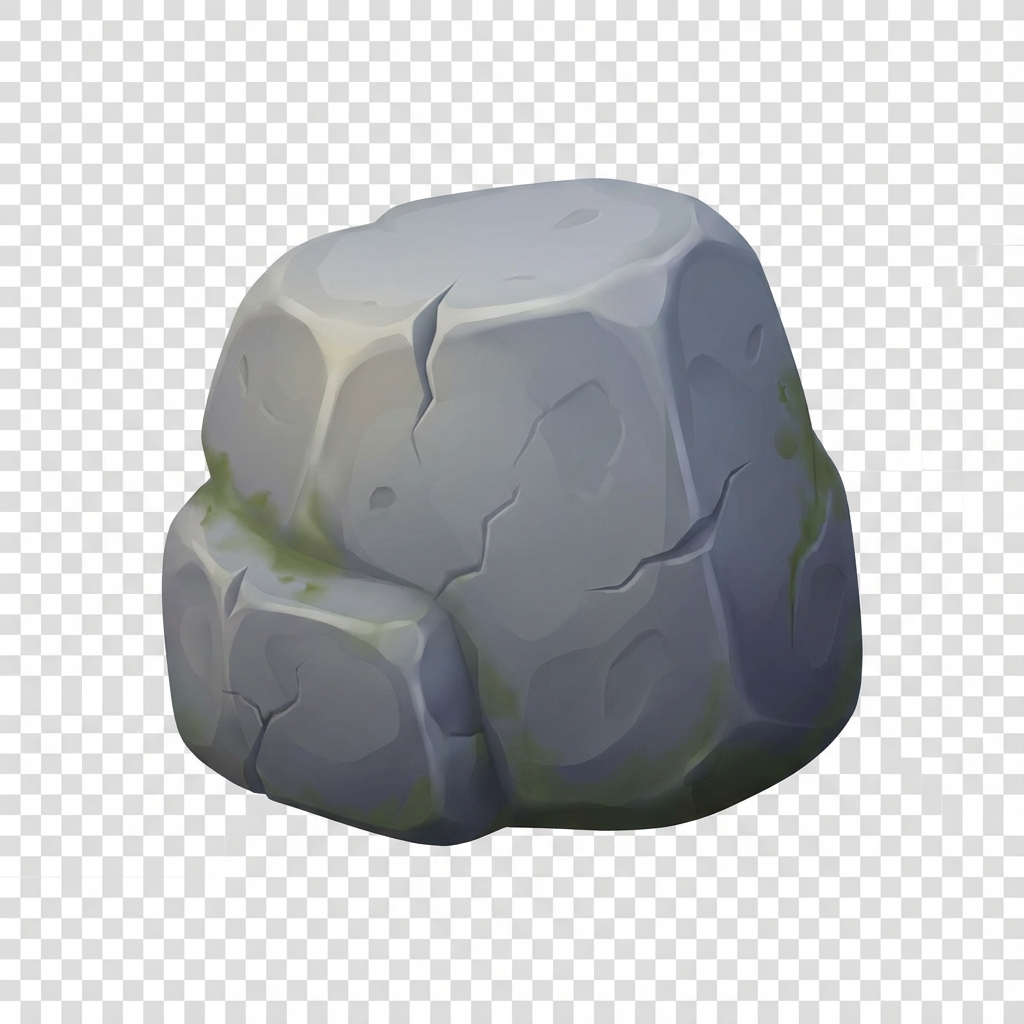
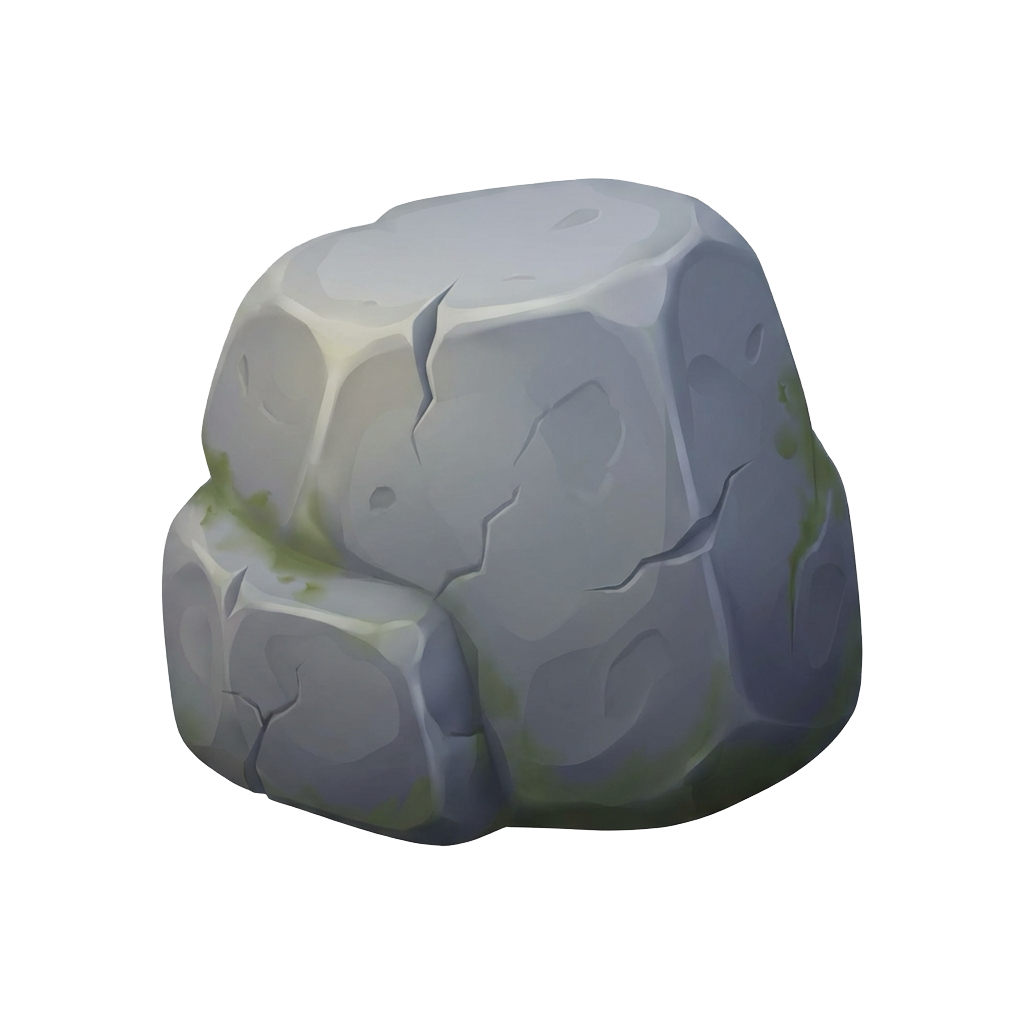
RPS v1.2
Fixed transparency issue with asset images. This
removed the need for the transparency algorithm,
so that is now also removed.

Also adjusted scale level to be more reasonable.

diff --git a/web_tools/rps_screen/script.js b/web_tools/rps_screen/script.js
@@ -99,21 +99,13 @@ async function init() {
         await Promise.all(Object.values(ASSETS).map(asset => {
             return new Promise((resolve, reject) => {
                 const img = new Image();
-                // img.crossOrigin = "Anonymous"; // REMOVED: Blocks file:// loading in Chrome
                 img.src = asset.src;
                 img.onload = () => {
-                    try {
-                        // Attempt "Magic Wand" transparency
-                        asset.img = processImage(img);
-                    } catch (e) {
-                        console.warn("Transparency processing failed (likely CORS/file-protocol restriction). Using original image.", e);
-                        asset.img = img;
-                    }
+                    asset.img = img;
                     resolve();
                 };
                 img.onerror = (e) => {
                     console.error("Failed to load image:", asset.src, e);
-                    // Resolve anyway to let simulation start with fallbacks (circles)
                     resolve();
                 };
             });
@@ -141,7 +133,11 @@ function updateSpeed() {
 }
 
 function updateSize() {
-    CONFIG.iconSize = CONFIG.baseSize * CONFIG.scaleLevel;
+    // Target: Level 10 should be 6x base size.
+    // Formula: base * (1 + log10(scale) * 5)
+    // Level 1: 1 + 0 = 1x (24px)
+    // Level 10: 1 + 1*5 = 6x (144px)
+    CONFIG.iconSize = CONFIG.baseSize * (1 + Math.log10(CONFIG.scaleLevel) * 5);
     CONFIG.collisionRadius = CONFIG.iconSize / 2;
 
     // Update existing items
@@ -150,90 +146,6 @@ function updateSize() {
     });
     // Re-check bounds immediately in case they grew into a wall
     resizeCanvas();
-}
-
-/**
- * Removes white/near-white background from an image using Flood Fill
- * Returns a new HTMLImageElement (or Canvas)
- */
-function processImage(sourceImg) {
-    const w = sourceImg.width;
-    const h = sourceImg.height;
-
-    const scratchCanvas = document.createElement('canvas');
-    scratchCanvas.width = w;
-    scratchCanvas.height = h;
-    const scratchCtx = scratchCanvas.getContext('2d');
-
-    scratchCtx.drawImage(sourceImg, 0, 0);
-    const imageData = scratchCtx.getImageData(0, 0, w, h);
-    const data = imageData.data;
-
-    // BFS Flood Fill from (0,0) and corners to catch background
-    // Assuming background is top-left pixel color (which should be white)
-    // We check 0,0; w-1,0; 0,h-1; w-1,h-1 just to be safe
-
-    const visited = new Uint8Array(w * h); // 1 if visited
-    const queue = [];
-
-    // Helper to add if consistent with background
-    // We'll consider "white-ish" as R>200, G>200, B>200
-    const isBackground = (idx) => {
-        const r = data[idx];
-        const g = data[idx + 1];
-        const b = data[idx + 2];
-        // Strict white or near white
-        return (r > 240 && g > 240 && b > 240);
-    };
-
-    const seeds = [
-        { x: 0, y: 0 },
-        { x: w - 1, y: 0 },
-        { x: 0, y: h - 1 },
-        { x: w - 1, y: h - 1 }
-    ];
-
-    seeds.forEach(p => {
-        const idx = (p.y * w + p.x) * 4;
-        if (isBackground(idx)) {
-            queue.push(p);
-            visited[p.y * w + p.x] = 1;
-        }
-    });
-
-    while (queue.length > 0) {
-        const { x, y } = queue.shift();
-        const baseIdx = (y * w + x) * 4;
-
-        // Clear pixel
-        data[baseIdx + 3] = 0; // Alpha 0
-
-        // Neighbors
-        const neighbors = [
-            { x: x + 1, y: y }, { x: x - 1, y: y },
-            { x: x, y: y + 1 }, { x: x, y: y - 1 }
-        ];
-
-        neighbors.forEach(n => {
-            if (n.x >= 0 && n.x < w && n.y >= 0 && n.y < h) {
-                const nOffset = n.y * w + n.x;
-                if (!visited[nOffset]) {
-                    const nIdx = nOffset * 4;
-                    if (isBackground(nIdx)) {
-                        visited[nOffset] = 1;
-                        queue.push(n);
-                    }
-                }
-            }
-        });
-    }
-
-    scratchCtx.putImageData(imageData, 0, 0);
-
-    // Convert back to image
-    const newImg = new Image();
-    newImg.src = scratchCanvas.toDataURL();
-    return newImg;
 }
 
 function resizeCanvas() {
@@ -262,10 +174,12 @@ function applyTheme(theme) {
 
 // --- Game Logic ---
 
+// --- Game Logic ---
+
 class Item {
-    constructor() {
+    constructor(type) {
         this.radius = CONFIG.collisionRadius;
-        this.type = Math.floor(Math.random() * 3);
+        this.type = type;
 
         // Random Position (respecting bounds)
         this.x = Math.random() * (width - 2 * this.radius) + this.radius;
@@ -335,8 +249,30 @@ function startSimulation() {
     CONFIG.count = parseInt(countInput.value);
     CONFIG.speedMultiplier = parseInt(speedInput.value);
 
+    // Distribution Logic: Min 15% per type
+    const minPerType = Math.floor(CONFIG.count * 0.15);
+    const typesPool = [];
+
+    // Add minimums
+    for (let i = 0; i < minPerType; i++) {
+        typesPool.push(TYPES.ROCK);
+        typesPool.push(TYPES.PAPER);
+        typesPool.push(TYPES.SCISSORS);
+    }
+
+    // Fill remainder randomly
+    while (typesPool.length < CONFIG.count) {
+        typesPool.push(Math.floor(Math.random() * 3));
+    }
+
+    // Shuffle pool (Fisher-Yates)
+    for (let i = typesPool.length - 1; i > 0; i--) {
+        const j = Math.floor(Math.random() * (i + 1));
+        [typesPool[i], typesPool[j]] = [typesPool[j], typesPool[i]];
+    }
+
     for (let i = 0; i < CONFIG.count; i++) {
-        items.push(new Item());
+        items.push(new Item(typesPool[i]));
     }
 
     if (animationId) cancelAnimationFrame(animationId);
